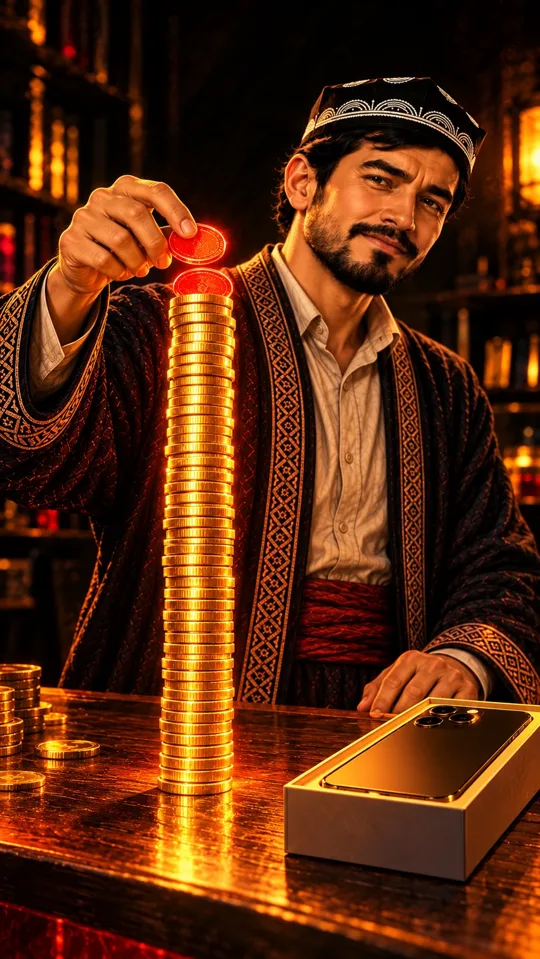
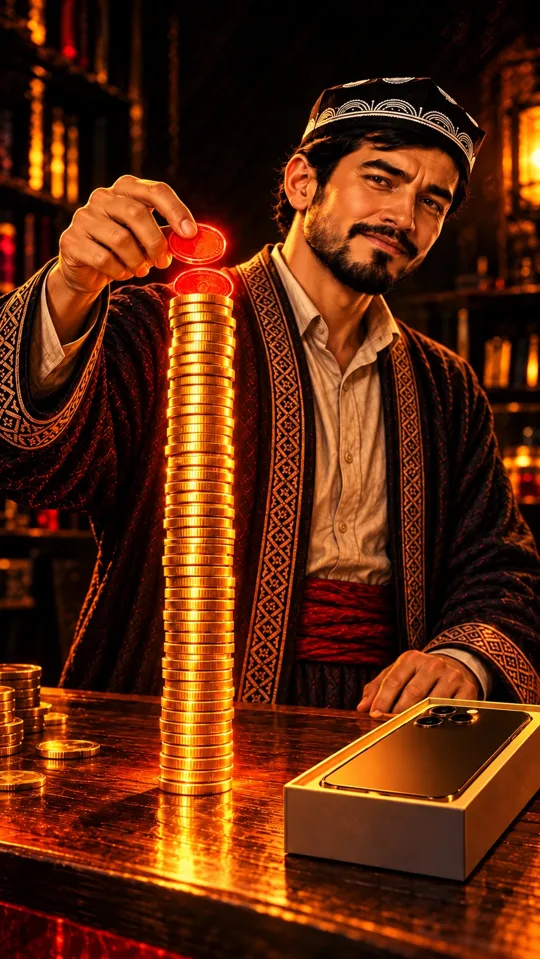
Oyiga atigi: scene 5 accepted after edit (#353)
Claude-Session: https://claude.ai/code/session_01RL3x4tL7VqVmiGwddJSE5k

diff --git a/video/oyiga/rasmlar.html b/video/oyiga/rasmlar.html
@@ -53,7 +53,7 @@ pre{margin:0;white-space:pre-wrap;word-break:break-word;font-family:var(--mono);
 <div class="row"><div class="refs"><p class="rh">Shu rasmni biriktiring:</p><figure class="ref"><img src="web/ref_diyor.webp" alt="Diyor namunasi"><figcaption>ref_diyor.png</figcaption></figure></div>
 <div class="txt"><span class="lbl">Ovoz</span><p class="voice">Diyor: Yuz ming… o&#x27;n ikki oy… bir million ikki yuz ming.</p>
 <span class="lbl">Rasm prompti (ChatGPT, 9:16)</span>
-<pre id="p4">Attach the reference image of Diyor. Keep every character exactly as in the reference image: the same face, age, hair, beard, clothes and props. Scene 4, vertical 9:16. DIYOR (the naive guy about 20 years old with messy black hair, big innocent eyes, dark blue hoodie, jeans and sneakers, outlined with a soft cyan-blue glow) counts on his fingers, both hands in front of him, lips moving, eyes looking up in surprise. Around his head twelve small glowing golden coins float in a circle, one for each finger he counts; they have no writing on them. Deep night blue background. Every person has exactly two arms and two hands, every hand clearly belongs to its own arm and shoulder, no hand does two things at once. Style: the same hand-painted illustration style as the reference images (painterly ink and paint, visible brush texture, cinematic light), but colourful and eye-catching. Colour rule: the whole frame uses ONLY 2 main colours: deep night blue and warm golden yellow; everything else is soft dark neutral shadow. Strong, saturated, glowing colour light, no rainbow, no other bright colours. Vertical 9:16. No text, no letters, no numbers, no logos, no watermark, no subtitles.</pre><button class="copy" data-t="p4">Nusxa olish</button></div></div></article><article class="card"><header><span class="num">05</span><h2>5-sahna — 9:16 (tik)</h2><span class="dur">25–30 s</span><span class="sws"><span class="sw sw-yellow">sariq</span><span class="sw sw-red">qizil</span></span></header><div class="scenes"><figure class="sc"><img src="web/s05.webp" alt="5-sahna, ⚠ qo&#x27;llar qariroq · tahrir tavsiya"><figcaption>⚠ qo&#x27;llar qariroq · tahrir tavsiya</figcaption></figure></div><p class="note">Yuz namunaga yaqin, do&#x27;ppi, chopon, belbog&#x27; to&#x27;g&#x27;ri. 2 ta qizil tanga ustun tepasida, ustun telefon qutisidan baland. Ranglar: sariq, qizil. Qutidagi telefonda belgi yo&#x27;q. Kamchilik: tangani ushlagan o&#x27;ng qo&#x27;l va peshtaxtadagi chap qo&#x27;lda bo&#x27;g&#x27;imlar chuqur burishgan, 30 yoshdan qariroq — tahrir prompti berildi.</p>
+<pre id="p4">Attach the reference image of Diyor. Keep every character exactly as in the reference image: the same face, age, hair, beard, clothes and props. Scene 4, vertical 9:16. DIYOR (the naive guy about 20 years old with messy black hair, big innocent eyes, dark blue hoodie, jeans and sneakers, outlined with a soft cyan-blue glow) counts on his fingers, both hands in front of him, lips moving, eyes looking up in surprise. Around his head twelve small glowing golden coins float in a circle, one for each finger he counts; they have no writing on them. Deep night blue background. Every person has exactly two arms and two hands, every hand clearly belongs to its own arm and shoulder, no hand does two things at once. Style: the same hand-painted illustration style as the reference images (painterly ink and paint, visible brush texture, cinematic light), but colourful and eye-catching. Colour rule: the whole frame uses ONLY 2 main colours: deep night blue and warm golden yellow; everything else is soft dark neutral shadow. Strong, saturated, glowing colour light, no rainbow, no other bright colours. Vertical 9:16. No text, no letters, no numbers, no logos, no watermark, no subtitles.</pre><button class="copy" data-t="p4">Nusxa olish</button></div></div></article><article class="card"><header><span class="num">05</span><h2>5-sahna — 9:16 (tik)</h2><span class="dur">25–30 s</span><span class="sws"><span class="sw sw-yellow">sariq</span><span class="sw sw-red">qizil</span></span></header><div class="scenes"><figure class="sc"><img src="web/s05.webp" alt="5-sahna, ✅ qabul qilindi (tahrirdan keyin, img/s05.png)"><figcaption>✅ qabul qilindi (tahrirdan keyin, img/s05.png)</figcaption></figure></div><p class="note">Yuz namunaga yaqin, do&#x27;ppi, chopon, belbog&#x27; to&#x27;g&#x27;ri. 2 ta qizil tanga ustun tepasida, ustun telefon qutisidan baland. Ranglar: sariq, qizil. Qutidagi telefonda belgi yo&#x27;q. Kamchilik: tangani ushlagan o&#x27;ng qo&#x27;l va peshtaxtadagi chap qo&#x27;lda bo&#x27;g&#x27;imlar chuqur burishgan, 30 yoshdan qariroq. Tahrirdan keyin (v2) teri biroz silliqlashdi, bo&#x27;g&#x27;im burmalari kamaydi, lekin to&#x27;liq yo&#x27;qolmadi — 7-sahnadagi qo&#x27;l bilan bir xil darajada, qabul qilindi.</p>
 <div class="row"><div class="refs"><p class="rh">Shu rasmni biriktiring:</p><figure class="ref"><img src="web/ref_usta.webp" alt="Usta namunasi"><figcaption>ref_usta.png</figcaption></figure></div>
 <div class="txt"><span class="lbl">Ovoz</span><p class="voice">Usta: Bunga boshlang&#x27;ich to&#x27;lov, xizmat haqi qo&#x27;shilsa-chi?</p>
 <span class="lbl">Rasm prompti (ChatGPT, 9:16)</span>

diff --git a/video/oyiga/rasm_promptlar.py b/video/oyiga/rasm_promptlar.py
@@ -10,7 +10,7 @@ IMG = {   # egasi yuborgan sahna rasmlari: n → [("s01", "izoh"), ...]
  2: [("s02", "✅ tasdiqlandi · Apple belgilari tozalandi (img/s02.png)")],
  7: [("s07", "✅ tasdiqlandi (img/s07.png)")],
  6: [("s06", "✅ tasdiqlandi · Apple belgilari tozalandi (img/s06.png)")],
- 5: [("s05", "⚠ qo'llar qariroq · tahrir tavsiya")],
+ 5: [("s05", "✅ qabul qilindi (tahrirdan keyin, img/s05.png)")],
  4: [("s04", "✅ tasdiqlandi (img/s04.png)")],
  3: [("s03", "✅ tasdiqlandi (tahrirdan keyin) · Apple belgilari tozalandi (img/s03.png)")],
 }
@@ -19,7 +19,7 @@ NOTE = {
  3: "Kiyim, do'ppi, lupa, qizil yorliq, ranglar (to'q sariq, qizil) to'g'ri. Xato: ikkala qo'li qari (ajin, bo'rtgan tomirlar, chuqur bo'g'im chiziqlari), yuzida peshona ajinlari va ko'z atrofida chiziqlar — ~40 yoshdek. Tahrirdan keyin: ikkala qo'l yosh (silliq teri, tomir yo'q), yuz namunaga yaqin (qoshini ko'targani uchun peshonada yengil chiziq). 2 ta Apple belgisini Claude tozaladi. Veo'ga img/s03.png beriladi.",
  7: "Usta yuzi namunadek. Tarozi: chap pallada kichik oltin ustun (naqd narx), o'ng pallada katta oltin+qizil uyum, o'ng palla pastroq. O'ng qo'li taroziga ishora qiladi, chap qo'li pastda; qo'llar yosh (barmoq bukilganda bo'g'imda oddiy burmalar). Ranglar: sariq, qizil, ko'k. Orqadagi telefonlarda belgi ko'rinmaydi.",
  6: "Diyor yuzi namunadek, bir qo'li boshida, biri telefonda; nuri xira. Ifodasi «uyalib jilmayish» (to'liq uyalgan emas) — Veo promptida uyalib pastga qarashi yoziladi. Sotuvchi: yumaloq yuz, qalin mo'ylov, yashil jilet, yuzi Usta va Diyornikidan butunlay boshqa; yorliqni ikki qo'llab ushlagan, yorliq bo'sh. Ranglar: sariq, ko'k. Pastki javondagi 11 ta Apple belgisi va mayda yozuvni Claude tozaladi.",
- 5: "Yuz namunaga yaqin, do'ppi, chopon, belbog' to'g'ri. 2 ta qizil tanga ustun tepasida, ustun telefon qutisidan baland. Ranglar: sariq, qizil. Qutidagi telefonda belgi yo'q. Kamchilik: tangani ushlagan o'ng qo'l va peshtaxtadagi chap qo'lda bo'g'imlar chuqur burishgan, 30 yoshdan qariroq — tahrir prompti berildi.",
+ 5: "Yuz namunaga yaqin, do'ppi, chopon, belbog' to'g'ri. 2 ta qizil tanga ustun tepasida, ustun telefon qutisidan baland. Ranglar: sariq, qizil. Qutidagi telefonda belgi yo'q. Kamchilik: tangani ushlagan o'ng qo'l va peshtaxtadagi chap qo'lda bo'g'imlar chuqur burishgan, 30 yoshdan qariroq. Tahrirdan keyin (v2) teri biroz silliqlashdi, bo'g'im burmalari kamaydi, lekin to'liq yo'qolmadi — 7-sahnadagi qo'l bilan bir xil darajada, qabul qilindi.",
  4: "Diyor yuzi namunadek (to'zg'igan soch, katta ko'zlar, xudi, sumka, moviy nur). Qo'llar yosh: o'ng qo'lda 5 barmoq ochiq, chap qo'l ko'rsatkich barmog'i bilan sanaydi. Ranglar: ko'k, sariq. Tangalar 12 emas, 11 ta (boshi orqasida bo'shliq) — tomoshabin sanamaydi; Veo'da tangalar birma-bir yonadi, shu yashiradi. Telefon, belgi, yozuv yo'q.",
  2: "Diyor yuzi namunadek (to'zg'igan soch, katta ko'zlar, xudi, moviy nur, sumka tasmasi), telefon ikki qo'lida. Ranglar: sariq, moviy. ChatGPT tahriri belgilarni olib tashlamadi; Claude vitrinadagi belgilarni o'zi tozaladi (OpenCV inpaint), qo'lidagi telefonda belgi yo'q. Veo'ga img/s02.png beriladi.",
 }
